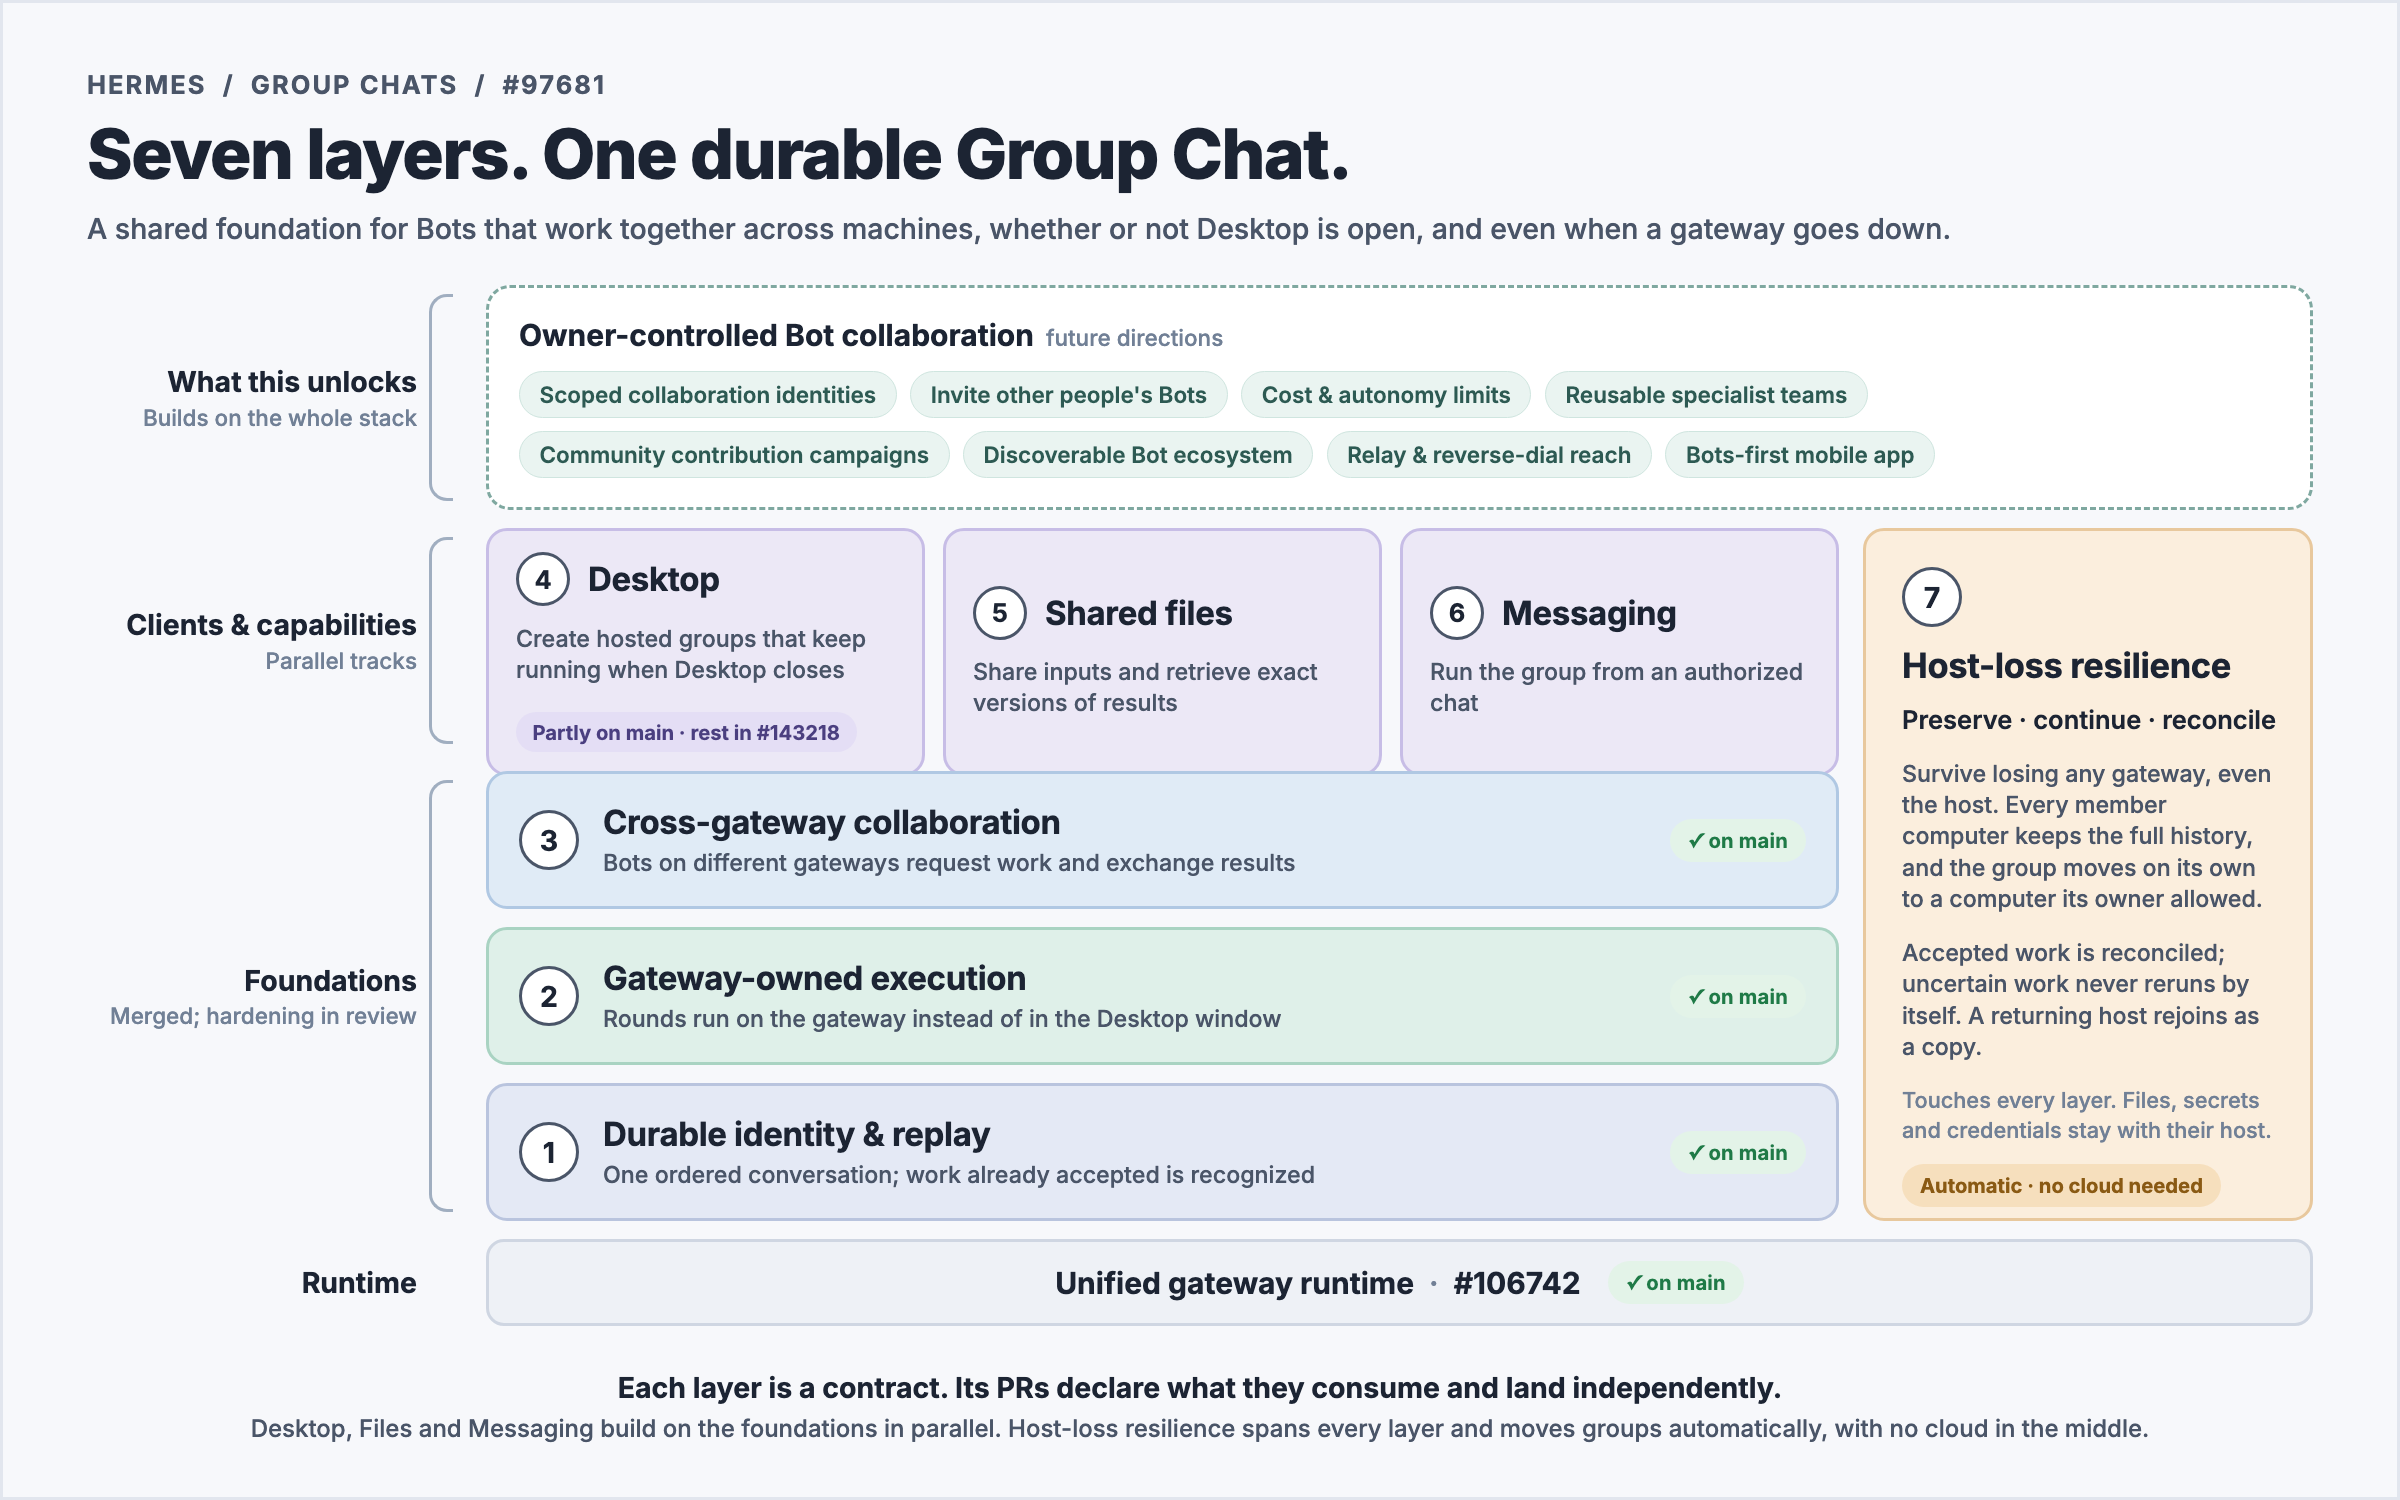
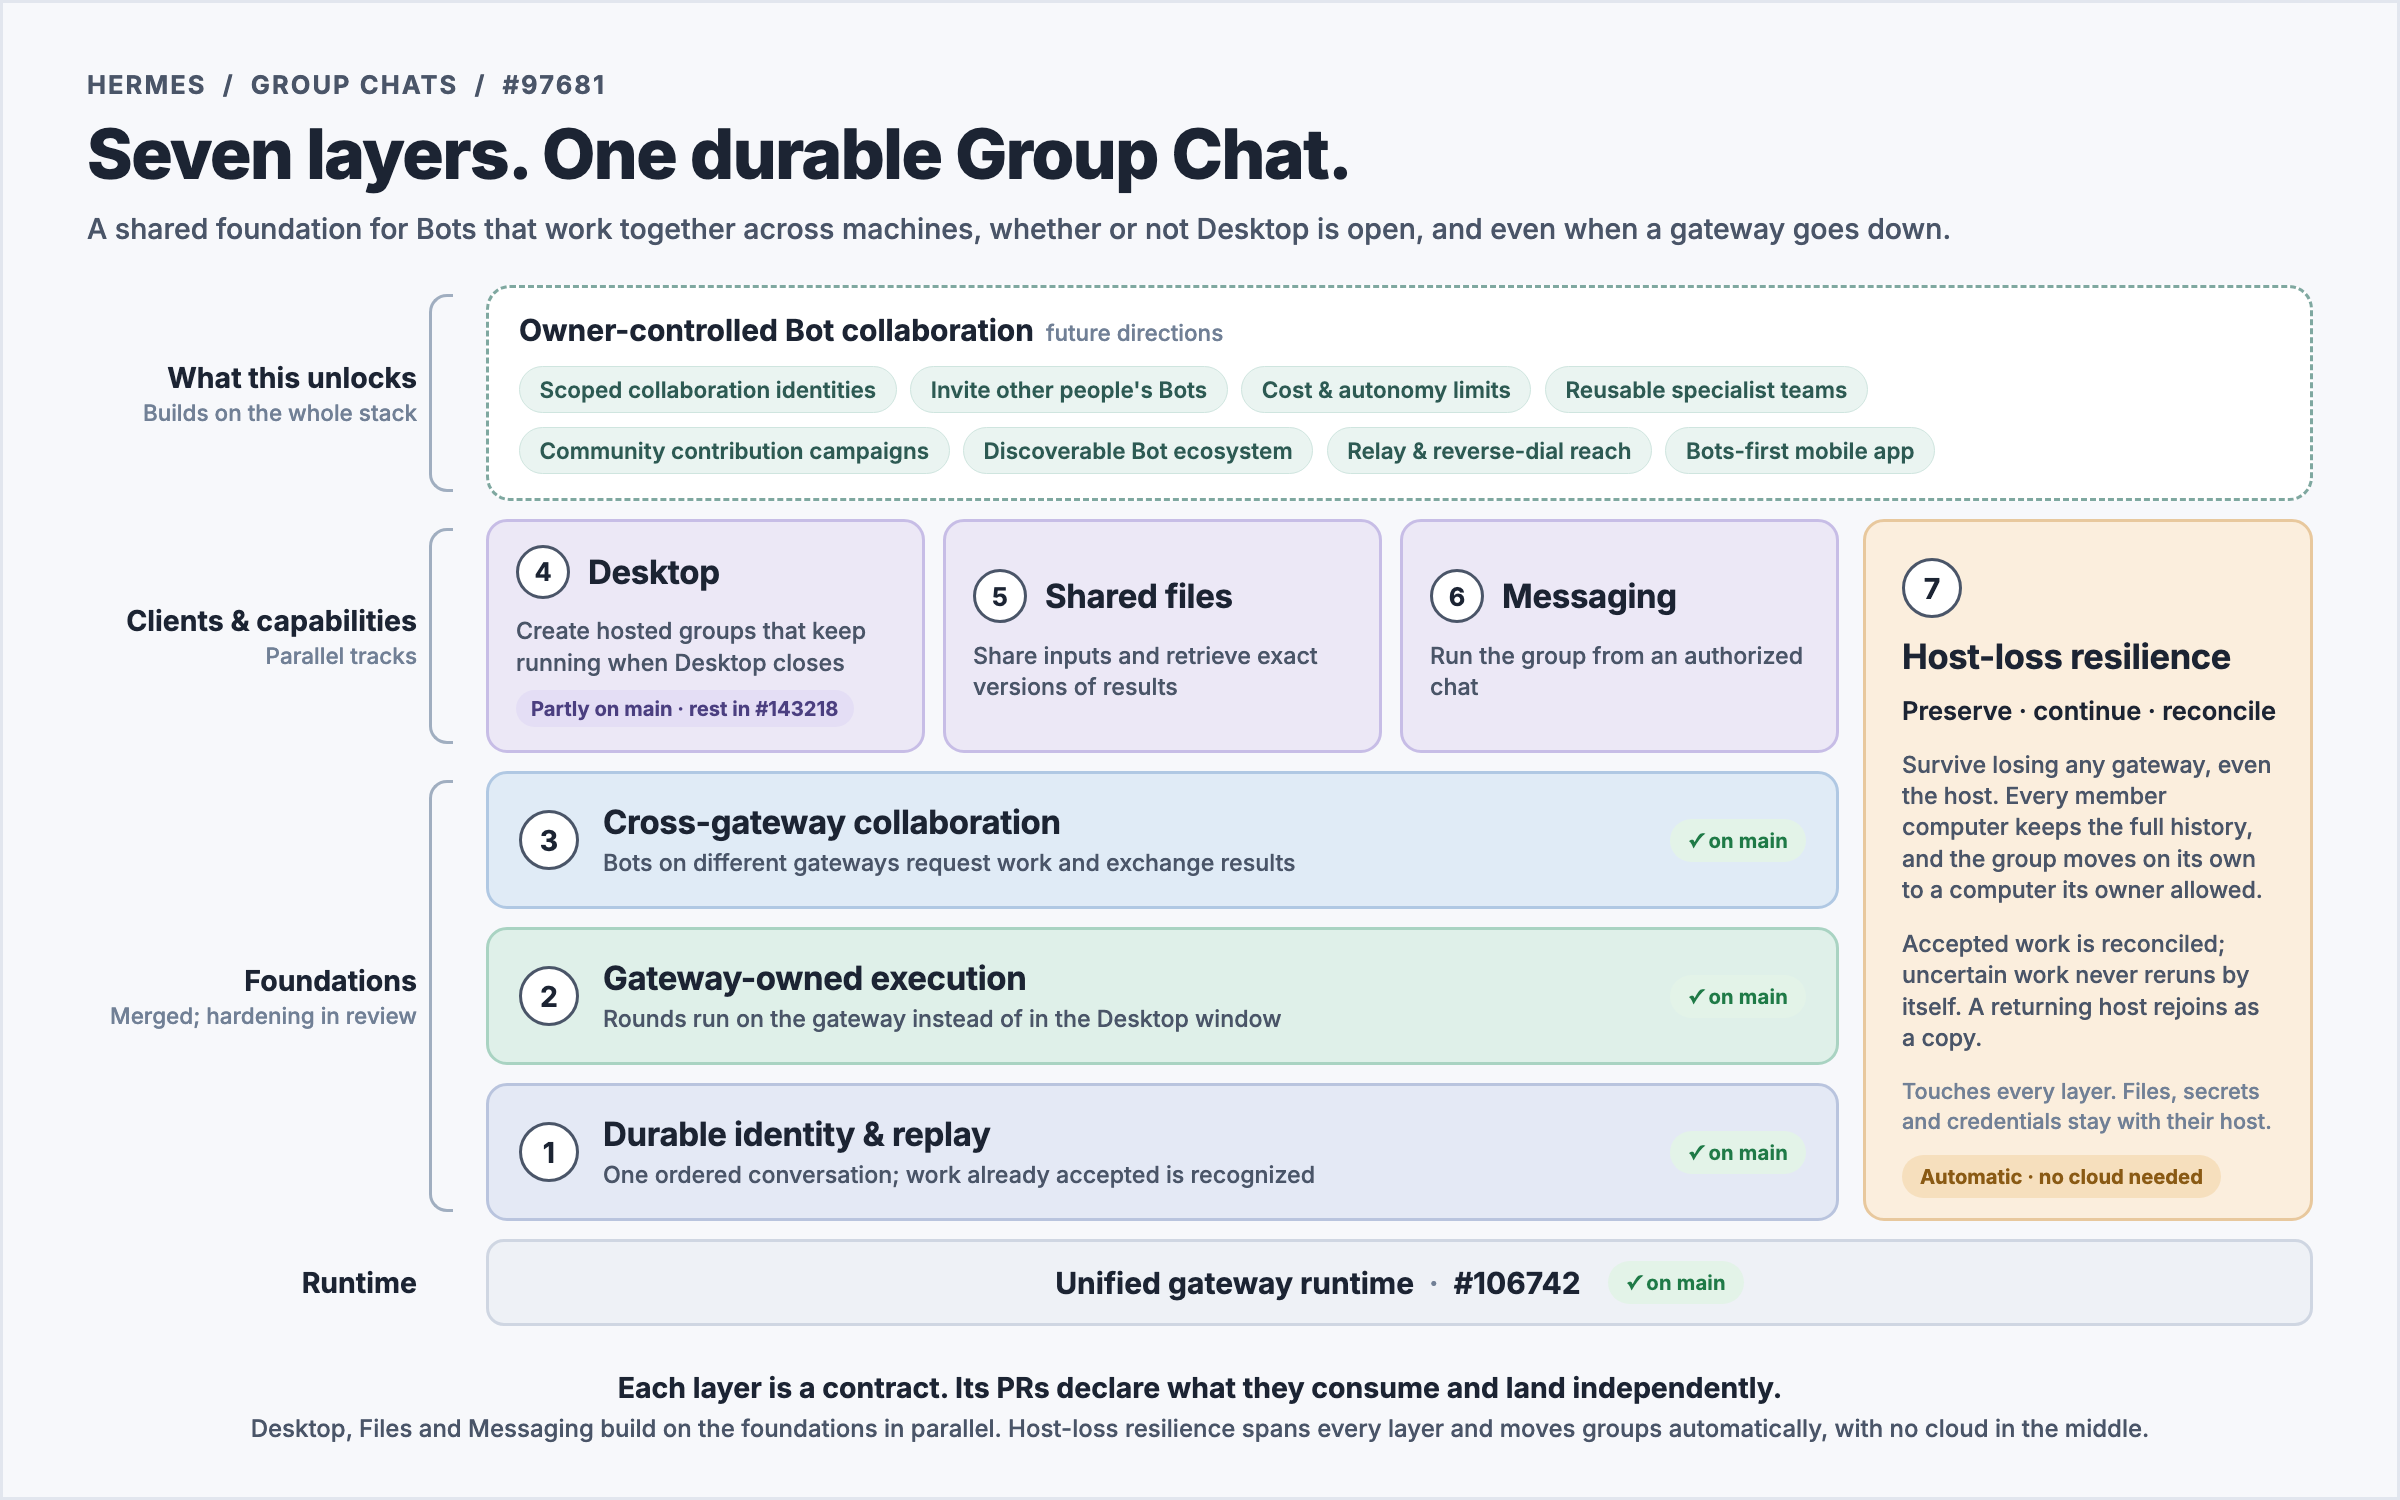
docs(issue-assets): give every layer row the same spacing

diff --git a/docs/issue-assets/bot-group-chat-layers-20261022.html b/docs/issue-assets/bot-group-chat-layers-20261022.html
@@ -39,7 +39,7 @@
   .diagram {
     display: grid;
     grid-template-columns: 250px 1fr 300px;
-    grid-template-rows: 150px 150px 92px 92px 92px 58px;
+    grid-template-rows: 144px 156px 92px 92px 92px 58px;
     column-gap: 16px;
     row-gap: 12px;
   }
@@ -101,7 +101,7 @@
   }
   .runtime span { color: var(--ink-3); font-weight: 600; margin: 0 10px; }
   .runtime .ok { color: var(--ok-ink); font-weight: 700; font-size: 13.5px; margin: 0 0 0 18px; }
-  .rev { display: inline-block; margin-top: 10px; font-size: 13.5px; font-weight: 700; color: #4b3f80; background: #e4def5; border-radius: 999px; padding: 5px 11px; }
+  .rev { display: inline-block; font-size: 13.5px; font-weight: 700; color: #4b3f80; background: #e4def5; border-radius: 999px; padding: 4px 10px; }
 
   footer { text-align: center; }
   footer b { display: block; font-size: 19px; font-weight: 700; }
